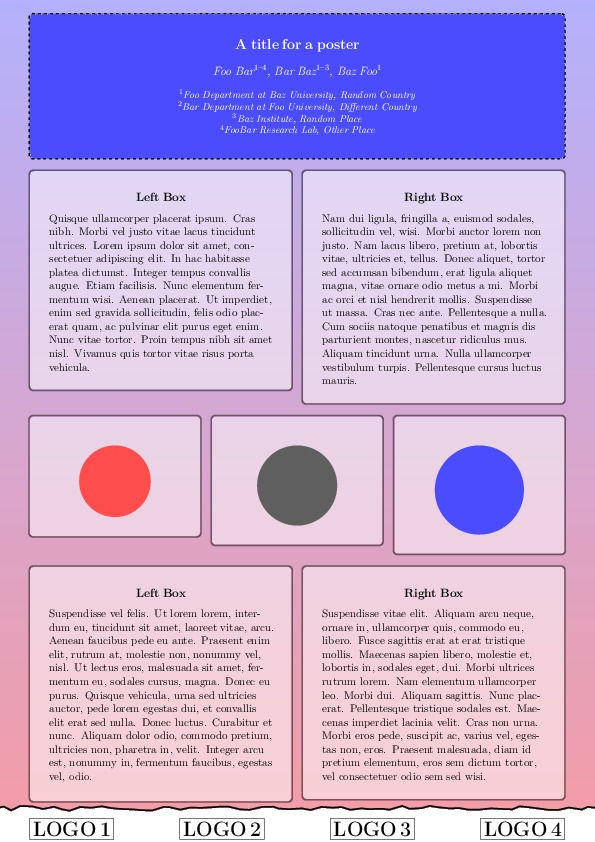
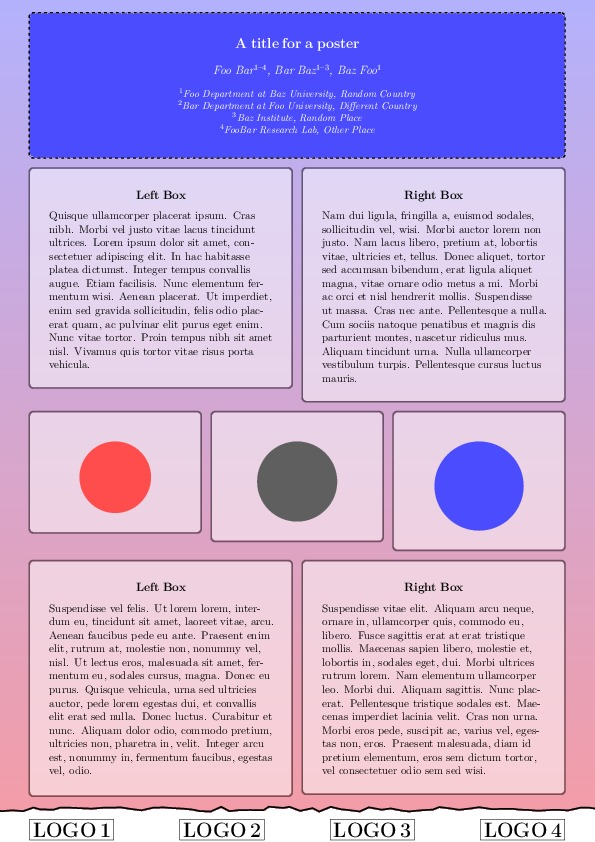
updated example file, image of poster, and README.md

diff --git a/poster.tex b/poster.tex
@@ -68,6 +68,7 @@
 \begin{document}
 
 % tweak layout
+\settopmargin{10}
 \setblockpadding{20}
 \setblockspacing{10}
 \shadebackground{red!40}{blue!30}

diff --git a/README.md b/README.md
@@ -67,6 +67,14 @@ Use
 
 to change the spacing between two blocks to Y.
 
+Change the margin to the top boundary of the page with
+
+    \settopmargin(Z)
+
+to Z.
+
+**Important: All provided values have to be dimensionless - they are interpreted in terms of pt.**
+
 The background can be changed with
 
     \shadebackground{bottomColor}{topColor}
@@ -74,12 +82,21 @@ The background can be changed with
 This creates a color gradient from top to bottom with the chosen colors.
 Both colors should be in a format that is accepted by TikZ.
 
+To place content on the background, use
+
+    \setbackground{CONTENT}
+
 Finally, the posterblock and logobox environments accept an optional argument that refers to a user-defined TikZ style for the block:
 
     \tikzset{%
-      example/.style={
+      myblock/.style={
         draw,
         fill=blue
+      },
+      mylogobox/.style={
+        draw,
+        anchor=south,
+        fill=white
       }
     }
 
@@ -89,19 +106,23 @@ Finally, the posterblock and logobox environments accept an optional argument th
 
     ...
 
-    \begin{posterblock}[example]
+    \begin{posterblock}[myblock]
         ...
     \end{posterblock}
 
     ...
 
-    \begin{logobox}[example]
+    \begin{logobox}[mylogobox]
        ...
     \end{logobox}
+
+**Important: Use anchor=south in your style for the logobox environment.**
 
 ## Example
 
 Example poster file that uses additional packages:
+
+Resulting poster:
 
     \documentclass[a4paper, 11pt]{article}
     \usepackage{mspposter}
@@ -173,6 +194,7 @@ Example poster file that uses additional packages:
     \begin{document}
 
     % tweak layout
+    \settopmargin{10}
     \setblockpadding{20}
     \setblockspacing{10}
     \shadebackground{red!40}{blue!30}
